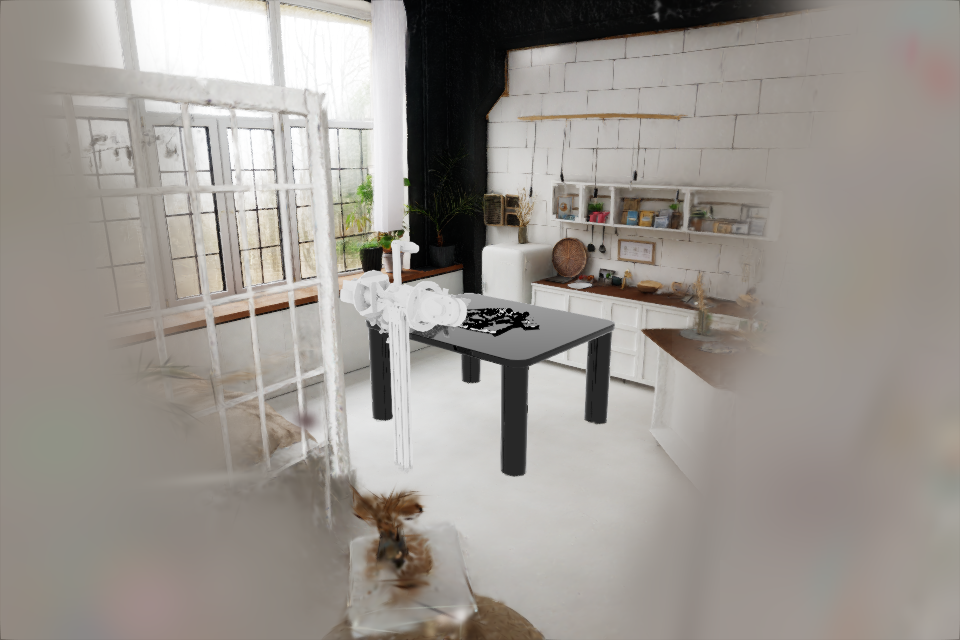
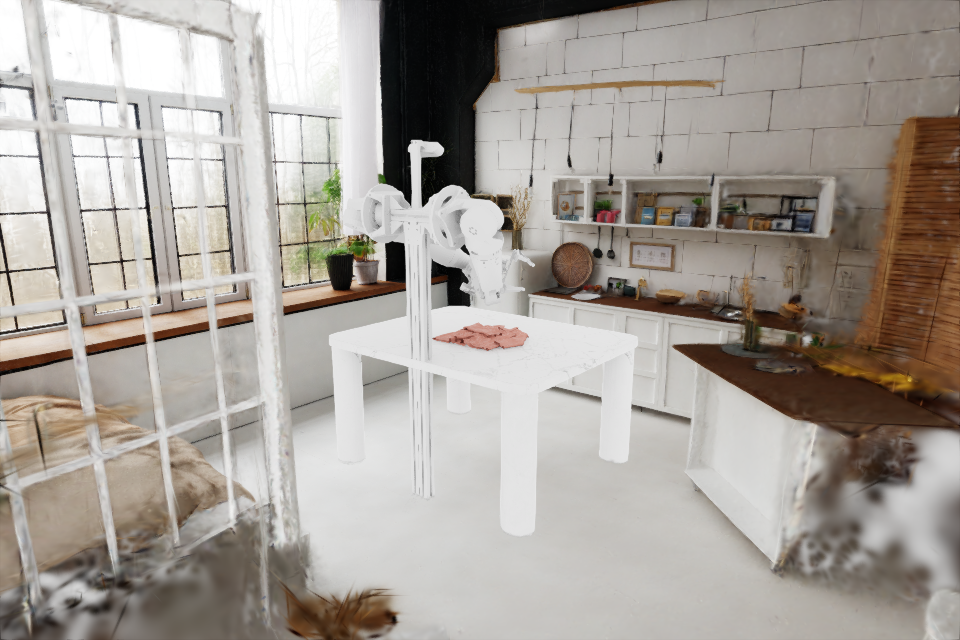
garment_fold_task: more comment trims + refresh stale hero screenshot
Tightened the Dockerfile, compose module, and robot_base_pos comments --
same facts, less text.

Replaced docs/images/pioneer_scene.png: it predated every fix this PR makes
(camera mount, robot_base_pos, fallback material) and barely showed the arm
(out-of-focus in the foreground). Recaptured with current state -- arm and
garment both clearly visible on the apartment-scene table.

Claude-Session: https://claude.ai/code/session_01BLtQaifEe42bBV6HUfmBv4

diff --git a/src/simulation/garment_fold_task/humanoid_garment_fold/tasks/garment_pioneer_cfg.py b/src/simulation/garment_fold_task/humanoid_garment_fold/tasks/garment_pioneer_cfg.py
@@ -60,21 +60,18 @@ class GarmentPioneerEnvCfg(GarmentEnvCfg):
     # one articulation, replaces upstream left_robot + right_robot
     robot: ArticulationCfg = BIMANUAL_ARM_CFG.replace(prim_path="/World/Robot")
 
-    # Front axis is +X (see bimanual_vial_rack.sh / pick_place_bimanual); rotated
-    # +90 deg about Z to face the garment at world ~(0,0,0.73).
+    # Front axis is +X (see bimanual_vial_rack.sh); rotated +90deg about Z to
+    # face the garment at world ~(0,0,0.73).
     #
-    # Y=-0.40, Z=0.95: picked by sampling the arm's real reachable workspace
-    # (forward kinematics over its joint limits, not IK) at several base
-    # positions -- this one gets within ~1cm of the garment vs. ~10-25cm short
-    # at the previous (0,-0.63,1.1997), confirmed with a real reach test
-    # (scripts/reach_pose_ik.py). Z=1.1997 (the stand's true floor-standing
-    # height, see git history) was reachability-infeasible from this distance.
-    # Trade-off, accepted for now: the stand sinks ~25cm into the floor again
-    # at Z=0.95 -- same bug as before, reintroduced because reach needs
-    # priority over visual floor placement. Apartment scene's table isn't
-    # independently raisable (Scene_00_Apartment.usd bakes floor+table into
-    # one prim; the Table038 fallback could be raised alone, at the cost of
-    # losing the photoreal backdrop -- not done here).
+    # Y=-0.40, Z=0.95: found by sampling real reachable workspace (FK over
+    # joint limits, scripts/fk_reach_check.py) -- gets within ~1cm of the
+    # garment vs. ~10-25cm short at the prior (0,-0.63,1.1997), confirmed with
+    # scripts/reach_pose_ik.py. Trade-off: Z=1.1997 is the stand's true
+    # floor-standing height but was reach-infeasible from there, so this
+    # re-sinks the stand ~25cm into the floor -- accepted, reach over visual
+    # placement. (The apartment scene's floor+table are one baked prim, not
+    # independently raisable; the Table038 fallback could be, at the cost of
+    # the photoreal backdrop -- not done here.)
     robot_base_pos: tuple = (0.0, -0.40, 0.95)
     robot_base_rot: tuple = (0.7071068, 0.0, 0.0, 0.7071068)  # wxyz, +90 deg Z
 
